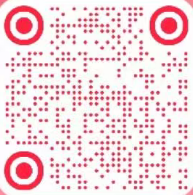
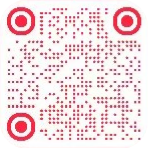
fix(wufuhui): replace official contact qr codes

diff --git a/frontend/src/features/legacy/LegacyProfileFlow.tsx b/frontend/src/features/legacy/LegacyProfileFlow.tsx
@@ -1021,11 +1021,11 @@ export function MySettings({ onBack, onLogout, busy }: { onBack: () => void; onL
 
 export function MySupport({ onBack }: { onBack: () => void }) {
   const media = [
-    { title:"官方公众号", description:"获取最新内容与服务消息", src:"/contact/official-wechat-account.jpeg", width:1280, height:1280 },
-    { title:"官方视频号", description:"关注我们的视频动态", src:"/contact/official-video-channel.png", width:904, height:926 },
-    { title:"官方小红书", description:"发现更多成长灵感", src:"/contact/official-xiaohongshu.png", width:194, height:196 },
+    { title:"官方公众号", description:"获取最新内容与服务消息", src:"/contact/official-wechat-account.jpeg", width:258, height:258 },
+    { title:"官方视频号", description:"关注我们的视频动态", src:"/contact/official-video-channel.png", width:662, height:862 },
+    { title:"官方小红书", description:"发现更多成长灵感", src:"/contact/official-xiaohongshu.png", width:148, height:148 },
   ];
-  return <section className="my-page my-detail contact-page"><MyHeader title="联系我们" onBack={onBack} /><header className="contact-intro"><small>OFFICIAL SUPPORT</small><h1>需要的时候，我们在这里</h1><p>账号、智慧种子或报告问题，请优先联系官方客服。</p></header><article className="support-focus"><div className="support-focus-title"><span><small>优先服务</small><strong>官方客服</strong></span><b>推荐</b></div><div className="support-qr"><Image src="/contact/official-customer-service.png" width={196} height={198} alt="官方客服二维码" unoptimized priority/></div><p>长按识别二维码，与客服取得联系</p></article><section className="official-media"><header><small>FOLLOW US</small><strong>关注官方媒体</strong></header>{media.map(item=><article key={item.title}><div><Image src={item.src} width={item.width} height={item.height} alt={`${item.title}二维码`} unoptimized/></div><span><strong>{item.title}</strong><small>{item.description}</small><em>长按识别</em></span></article>)}</section><div className="contact-note"><strong>请认准官方渠道</strong><p>我们不会索要短信验证码、登录口令或私钥。</p></div></section>;
+  return <section className="my-page my-detail contact-page"><MyHeader title="联系我们" onBack={onBack} /><header className="contact-intro"><small>OFFICIAL SUPPORT</small><h1>需要的时候，我们在这里</h1><p>账号、智慧种子或报告问题，请优先联系官方客服。</p></header><article className="support-focus"><div className="support-focus-title"><span><small>优先服务</small><strong>官方客服</strong></span><b>推荐</b></div><div className="support-qr"><Image src="/contact/official-customer-service.png" width={258} height={258} alt="官方客服二维码" unoptimized priority/></div><p>长按识别二维码，与客服取得联系</p></article><section className="official-media"><header><small>FOLLOW US</small><strong>关注官方媒体</strong></header>{media.map(item=><article key={item.title}><div><Image src={item.src} width={item.width} height={item.height} alt={`${item.title}二维码`} unoptimized/></div><span><strong>{item.title}</strong><small>{item.description}</small><em>长按识别</em></span></article>)}</section><div className="contact-note"><strong>请认准官方渠道</strong><p>我们不会索要短信验证码、登录口令或私钥。</p></div></section>;
 }
 
 function WisdomArchive({profiles,self,onBack,onAdd,onSelf,onPerson}:{profiles:LifeProfile[];self:LifeProfile|null;onBack:()=>void;onAdd:()=>void;onSelf:()=>void;onPerson:(profile:LifeProfile)=>void}){
